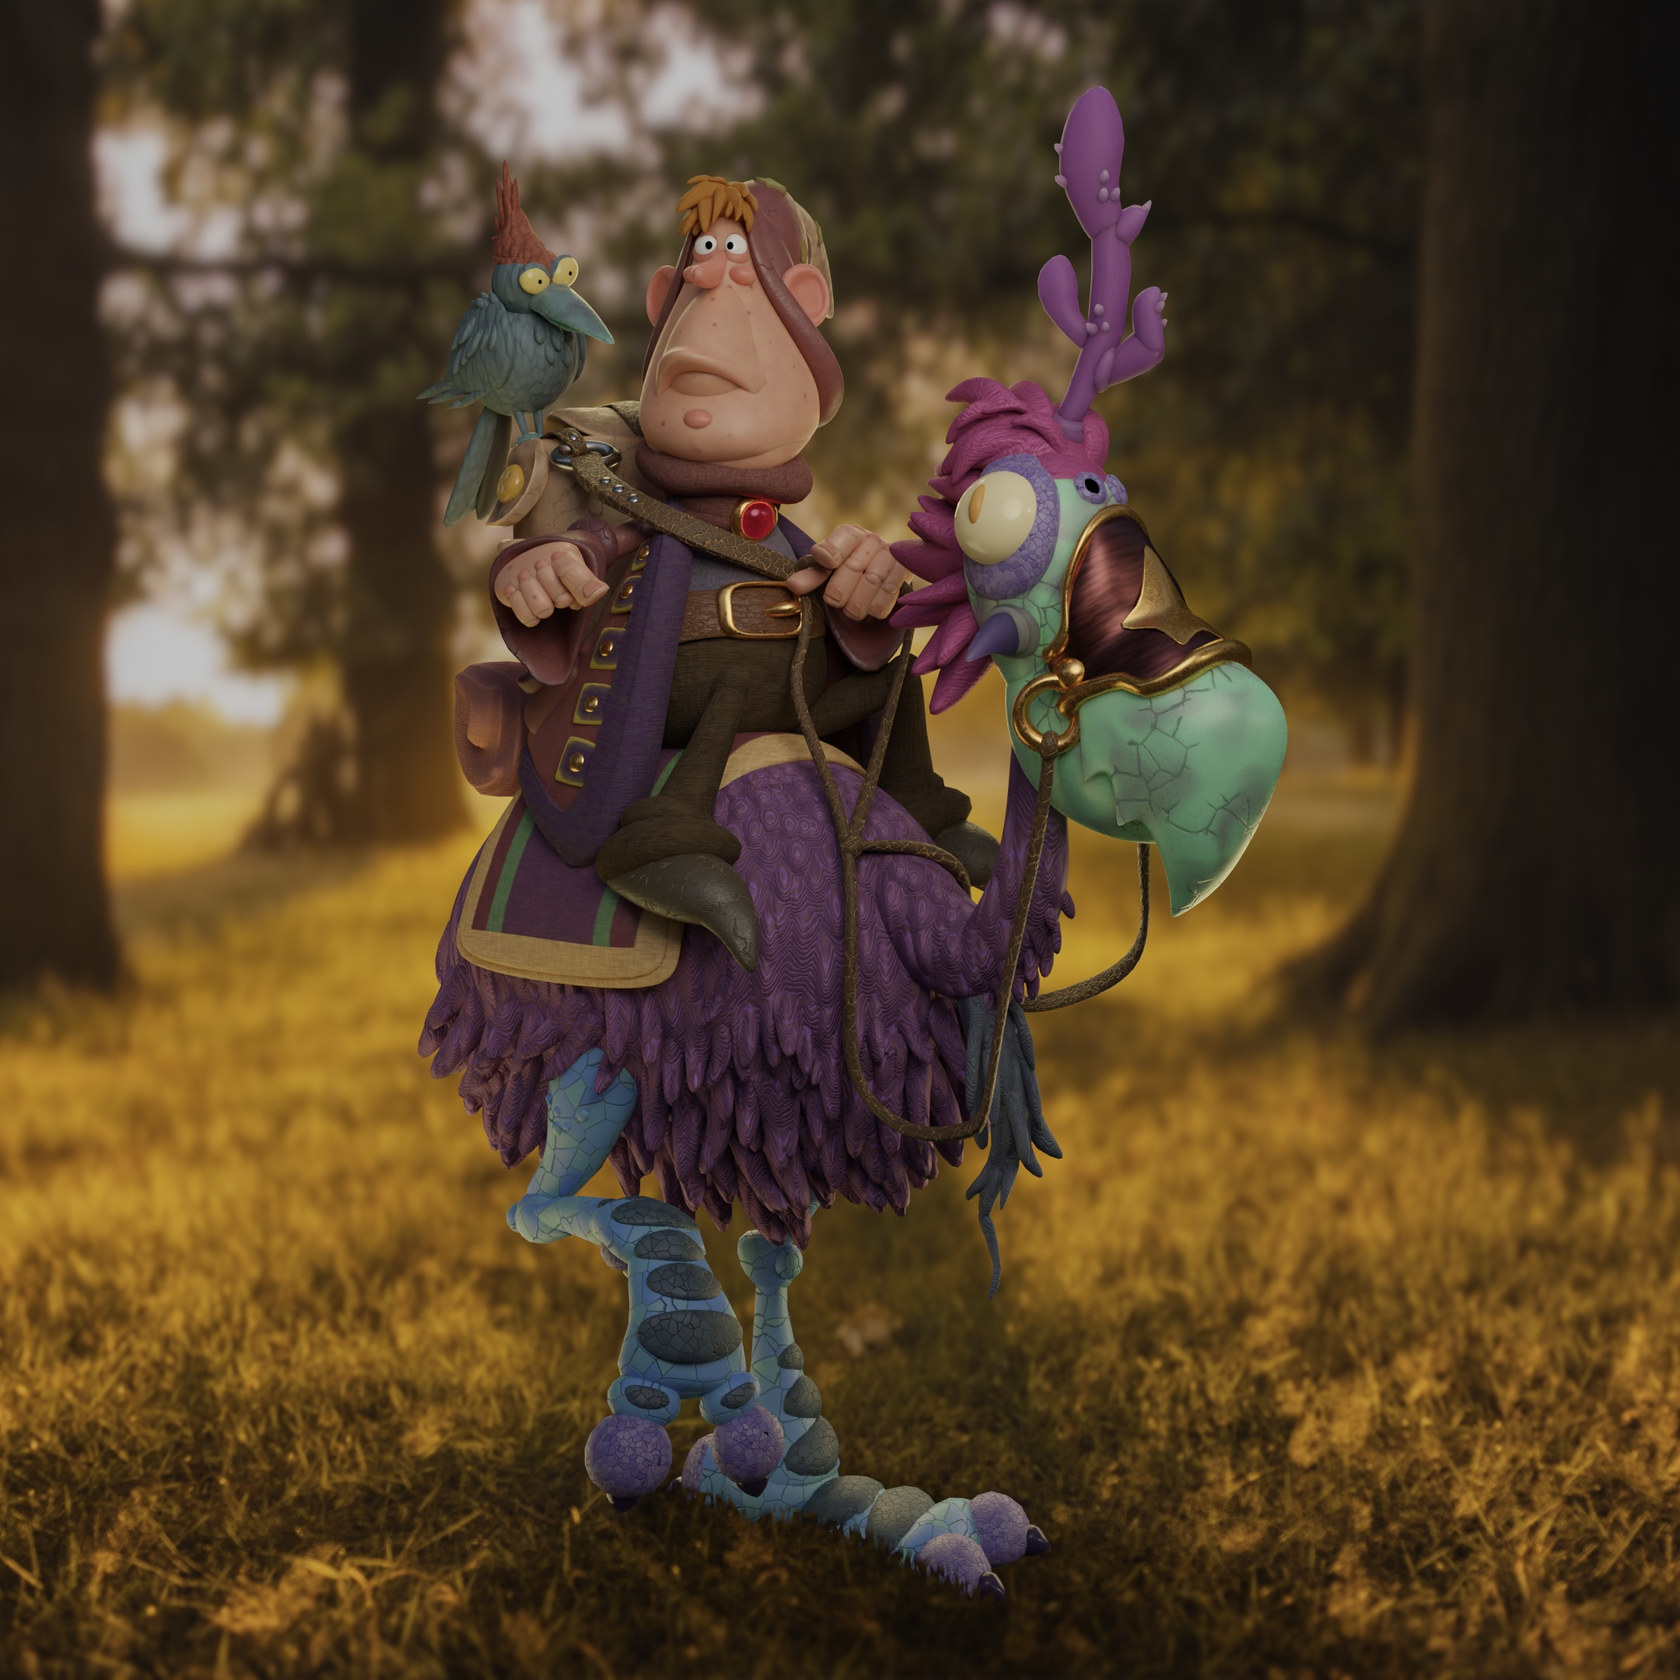
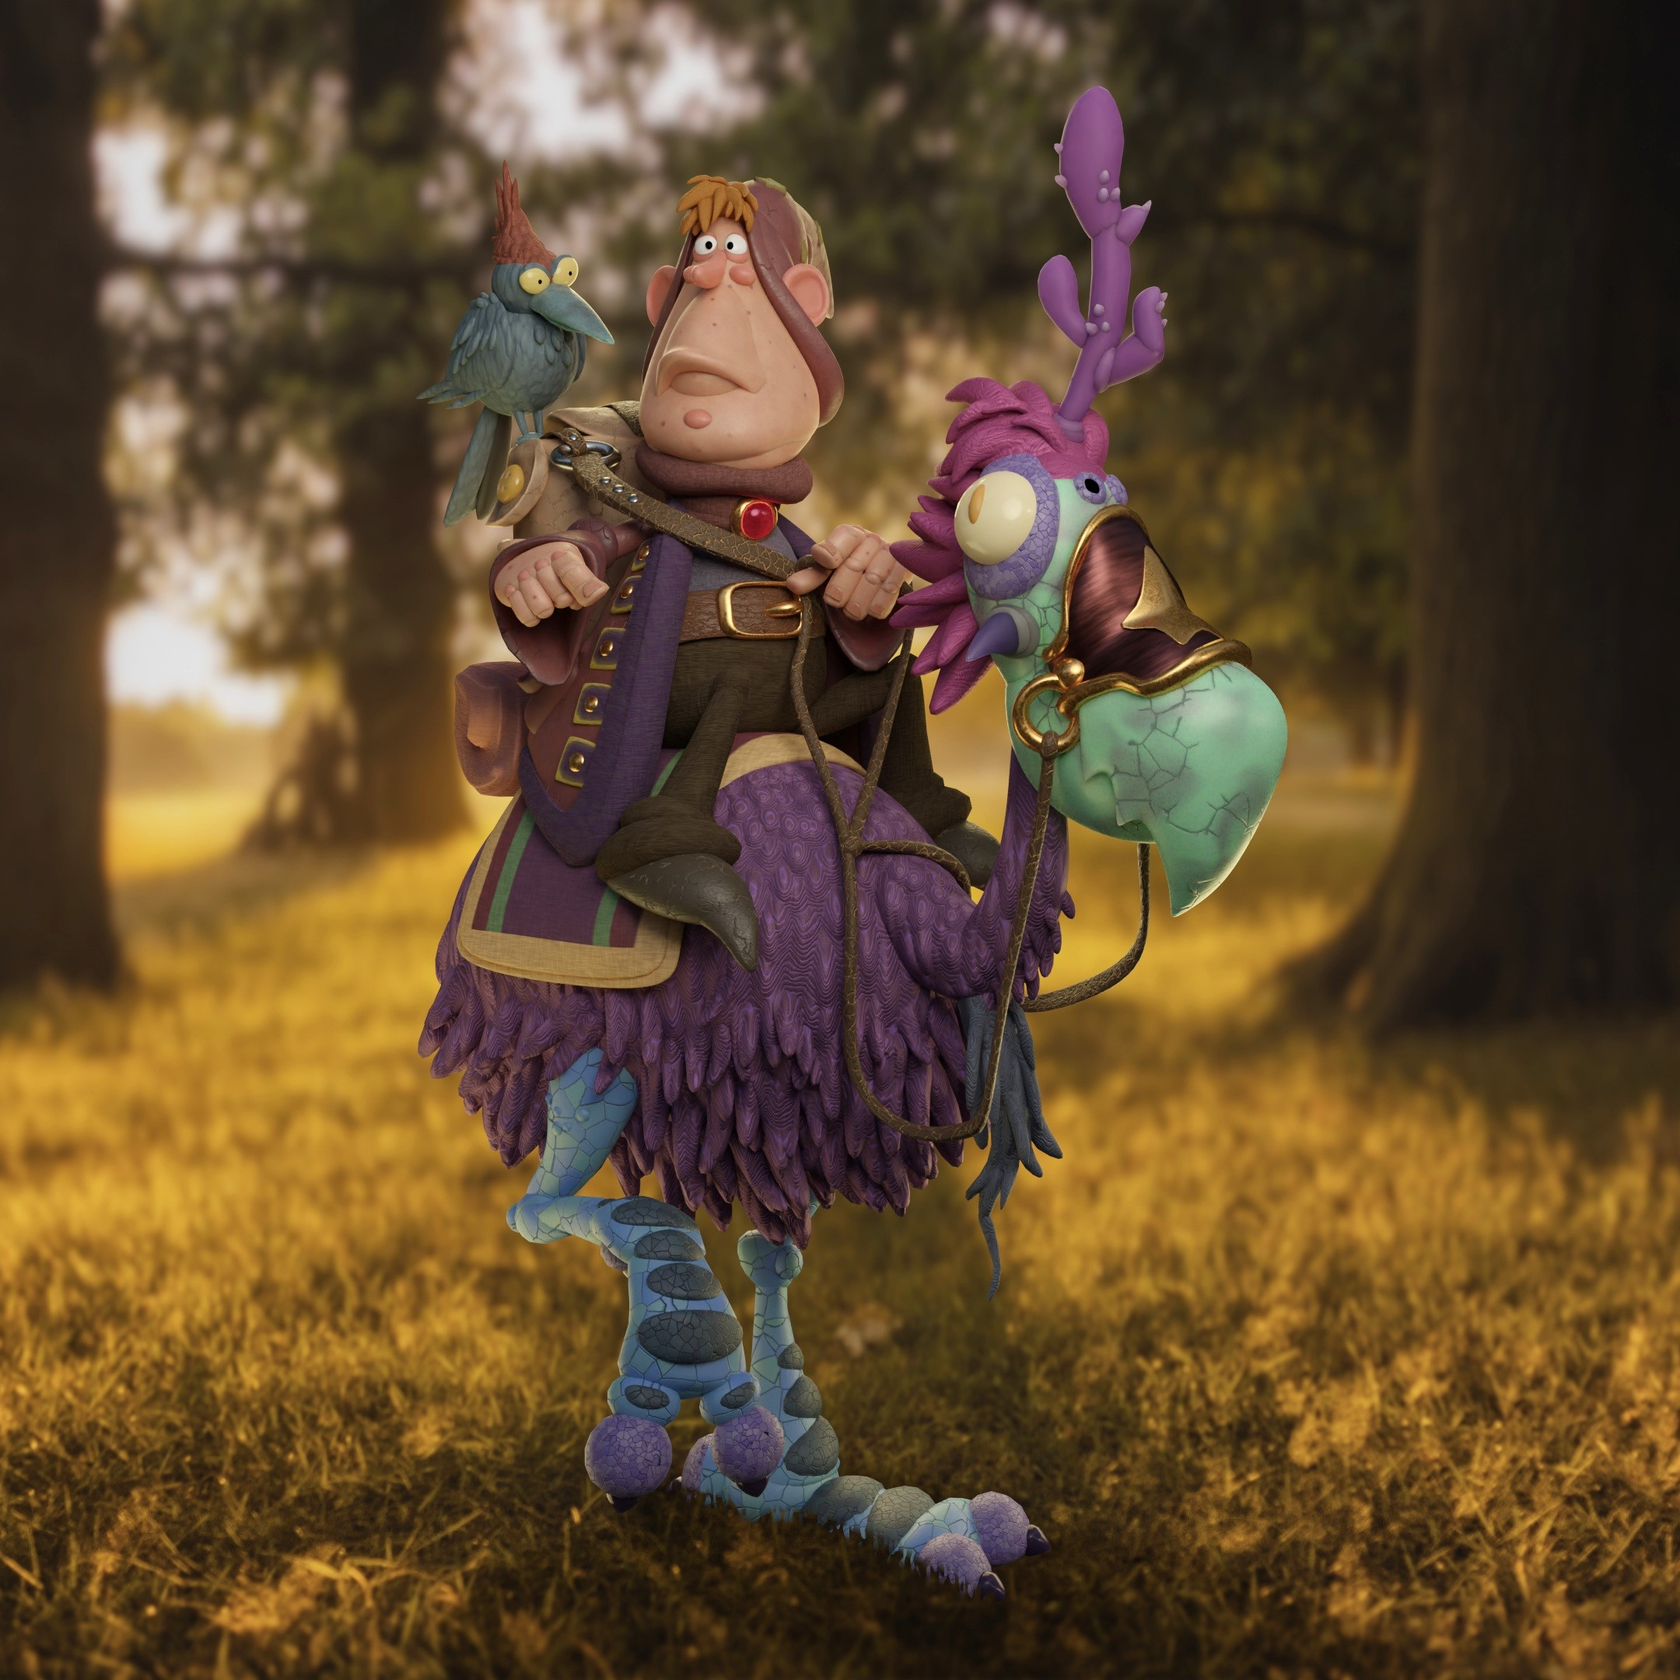
Shrink images

diff --git a/blackbody.html b/blackbody.html
@@ -56,16 +56,16 @@
 								</div>
 								<p class="portfolio_item_main_text">As my final project for <i>CS184: Computer Graphics and Imaging</i> at UC Berkeley, I worked with Jen Hoang and Susan Lin to simulate the blackbody glow of metal objects at high temperatures. The resulting renders take into account non-uniform heat distributions and optical material properties, heightening realism.</p>
 							</div>
-							<span class="image main"><img src="images/blackbody/heat_colors.png" alt="heat colors" /></span>
+							<span class="image main"><img src="images/blackbody/heat_colors.jpg" alt="heat colors" /></span>
 							<h2>Emission and Color Reproduction</h2>
 							<p>We start by implementing the glow of perfectly diffuse emissive objects for some input temperature. In this case, our object is an ideal blackbody that absorbs and re-emits all energy falling upon it. After computing the radiance of our blackbody with Planck's Law of Blackbody Radiation, we convert this high dimensional spectrum to an sRGB color compatible with the computer display.</p>
-							<span class="image main"><img src="images/blackbody/gold.png" alt="gold bunny" /></span>
+							<span class="image main"><img src="images/blackbody/gold.jpg" alt="gold bunny" /></span>
 							<h2>Reflectance and Polarization</h2>
 							<p>We combined our estimate of blackbody radiation with the reflectance of the metal, allowing us to realistically render glow effects for various metallic materials. The final sampled color is a combination of reflected and emitted light, weighted according to Kirchhoff's Law of Thermal Radiation. We also explored how polarization of light changes glow effects and reflections.</p>
-							<span class="image main"><img src="images/blackbody/distributions.png" alt="heat distributions" /></span>
+							<span class="image main"><img src="images/blackbody/distributions.jpg" alt="heat distributions" /></span>
 							<h2>Temperature Distributions</h2>
 							<p>When raytracing, we sample the temperature at each point of intersection. These sampled temperatures are dependent on the type of temperature distribution given: uniform, linear, or noise-based. The linear distribution applies a smooth temperature gradient, and the noise map applies the pseudo-random Perlin noise function with control over temperature range and noise fineness.</p>
-							<span class="image main"><img src="images/blackbody/proj_3.png" alt="adaptive sampling" /></span>
+							<span class="image main"><img src="images/blackbody/proj_3.jpg" alt="adaptive sampling" /></span>
 							<h2>Path Tracer Codebase</h2>
 							<p>Our blackbody renderer was built as an extension of the <a href="https://cs184.eecs.berkeley.edu/sp20/article/20/assignment-3-1-pathtracer" target="_blank">CS184 Project 3: Pathtracer</a> codebase. For this previous project, I implemented the core path tracing algorithms of a physically-based renderer, including ray-geometry intersection, direct and global illumination with Russian Roulette recursion, and adaptive sampling. Additionally, I developed microfacet material modeling and depth-of-field lens simulation.</p>
 							<span class="image main" style="margin-left:20%;width:60%"><img src="images/blackbody/noiseDragon_extra.png" alt="spotted dragon" />

diff --git a/special_order.html b/special_order.html
@@ -59,16 +59,16 @@
 							<span class="image main"><img src="images/special_order/aliens_char_sheet_2.jpg" alt="" /></span>
 							<h2>Pre-Production</h2>
 							<p>This character sketch, by Wyatt Hollister, was used to guide the modeling of the aliens in Maya. During this first stage of the animation pipeline, I used Adobe Premiere Pro to assemble an animatic video with sounds effects and static storyboard drawings.</p>
-							<span class="image main"><img src="images/special_order/modeling_01.png" alt="" /></span>
+							<span class="image main"><img src="images/special_order/modeling_01.jpg" alt="" /></span>
 							<h2>Modeling and Rigging</h2>
 							<p>I modeled the meshes for the alien characters, as well as assets including the clipboard, cacti, buttes, and tree. I sculpted the alien’s head in Mudbox, then constructed a high-fidelity face mesh using Maya’s “Quad Draw” tool. I also built the skeletons and controller rigs to be used in the animation of the full alien bodies, and created “blendshapes” to facilitate animations of facial expressions.</p>
-							<span class="image main"><img src="images/special_order/shading.png" alt="" /></span>
+							<span class="image main"><img src="images/special_order/shading.jpg" alt="" /></span>
 							<h2>Shading</h2>
 							<p>I shaded the aliens and several assets. The color, bump, and roughness textures were created in Substance Painter and Photoshop, and combined using RenderMan shaders.</p>
 							<span class="image main"><img src="images/special_order/anim.png" alt="" /></span>
 							<h2>Animation</h2>
 							<p>Some of the animations I worked on include the truck stopping in the desert and the delivery man walking and handing off the package. I also animated several shots of the aliens, including the mechanical part being grabbed and lifted out of the package, as well as facial expressions and eye motion.</p>
-							<span class="image main"><img src="images/special_order/lighting.png" alt="" /></span>
+							<span class="image main"><img src="images/special_order/lighting.jpg" alt="" /></span>
 							<h2>Lighting and Post-Production</h2>
 							<p>The atmosphere of a desert at dusk was achieved through RenderMan lighting, as well as compositing of the final renders onto some beautiful backgrounds, painted by Brian Lo. Dust, smoke, and abduction effects were also composited in Adobe After Effects. Finally, I edited the sound design to match the final cut of the movie.</p>
 

diff --git a/mirage.html b/mirage.html
@@ -80,11 +80,11 @@
 									<img src="images/mirage/mirage_hand_dissolve_thirds_edit.jpg" alt="hand disappearing"/>
 								</div>
 								<div class="image column halves">
-									<img src="images/mirage/procedural_presence.png" alt="presence textures"/>
+									<img src="images/mirage/procedural_presence.jpg" alt="presence textures"/>
 								</div>
 							</div>
 							<div class="image main">
-								<img src="images/mirage/shot8_comp.png" alt="disintegration side shot"/>
+								<img src="images/mirage/shot8_comp.jpg" alt="disintegration side shot"/>
 							</div>
 							<p>I generated the sand particles for Lila's disintegration using Houdini. First, I animated multiple geometry masks in order to spread the extent of disintegration over time. I then used a POP network, first to generate particles with randomized transforms, then to simulate the particles as they flew through turbulent wind. Additionally, I generated sequences of grayscale presence textures, used to animate the disappearance of Lila's body and clothing meshes. The data from body animations, Vellum cloth simulation, and particles were transferred between Maya and Houdini via USD and Alembic cache.</p>
 
@@ -96,16 +96,16 @@
 
 							<h2>Lighting</h2>
 							<div class="image main">
-							  <img src="images/mirage/shot6_0352.png" alt="hug with lila"/>
+							  <img src="images/mirage/shot6_0352.jpg" alt="hug with lila"/>
 							</div>
 							<p>I also set up most of the lighting for the hug sequence. For the shot above, three-point lighting produced the highlights on Lila's nose, the warm rim around her hair, and the soft fill on her hand. I used a small, light-linked sphere light to bring out the vibrance of Lila's ring gem. Additonally, I animated the brightness of an HDRI dome light to gradually bring on some darkness as Lila disintegrated.</p>
 
 							<h2>Rigging</h2>
 							<div class="image main">
-							  <img src="images/mirage/shot11_01.png" alt="jon alone"/>
+							  <img src="images/mirage/shot11_01.jpg" alt="jon alone"/>
 							</div>
 							<div class="image main">
-								<img src="images/mirage/shot16_01.png" alt="end shot"/>
+								<img src="images/mirage/shot16_01.jpg" alt="end shot"/>
 							</div>
 							<p>I worked on the rigging of Jon's face, mainly using blend shapes to create facial expressions. Each control drove the motion of a particular section of a lip, cheek, eyelid, eyebrow, or some other muscle in the face.</p>
 

diff --git a/index.html b/index.html
@@ -54,7 +54,7 @@
 								<h1>Ethan Buttimer <span style="font-weight:normal">&#183; Portfolio</span></h1>
 								<!--<div class="image row">
 								  <div class="image column">
-								    <img src="images/central/portrait_01_bw.png" alt="">
+								    <img src="images/central/portrait_02.jpg" alt="">
 								  </div>
 							  	</div>-->
 								<div class="portfolio_item_head">
@@ -107,7 +107,7 @@
 								</article>
 								<article>
 									<span class="image">
-										<img src="images/toadlet/toadlet_result.png" alt="" class="central"/>
+										<img src="images/central/toadlet_result.jpg" alt="" class="central"/>
 									</span>
 									<a href="toadlet.html">
 										<h2>Pumpkin Toadlet</h2>
@@ -118,7 +118,7 @@
 								</article>
 								<article>
 									<span class="image">
-										<img src="images/central/spline_wall_pic.png" alt="spline wall" class="central"/>
+										<img src="images/central/spline_wall_pic.jpg" alt="spline wall" class="central"/>
 									</span>
 									<a href="geopogo.html">
 										<h2>Geopogo AR</h2>
@@ -151,7 +151,7 @@
 								</article>
 								<article>
 									<span class="image hover_blur">
-										<img src="images/central/noiseDragon_extra.png" alt="" class="central"/>
+										<img src="images/central/noiseDragon_extra.jpg" alt="" class="central"/>
 									</span>
 									<a href="blackbody.html">
 										<h2>Blackbody Renderer</h2>
@@ -162,7 +162,7 @@
 								</article>
 								<!--<article>
 									<span class="image">
-										<img src="images/central/geonudge.png" alt="" class="central"/>
+										<img src="images/central/geonudge.jpg" alt="" class="central"/>
 									</span>
 									<a href="geonudge.html">
 										<h2>GeoNudge</h2>
@@ -173,7 +173,7 @@
 								</article>-->
 								<article>
 									<span class="image hover_blur">
-										<img src="images/central/truck.png" alt="" class="central"/>
+										<img src="images/central/truck.jpg" alt="" class="central"/>
 									</span>
 									<a href="special_order.html">
 										<h2>Special Order</h2>
@@ -203,7 +203,7 @@
 								</article>-->
 								<!--<article>
 									<span class="image">
-										<img src="images/central/eggony.png" alt="" class="central"/>
+										<img src="images/central/eggony.jpg" alt="" class="central"/>
 									</span>
 									<a href="eggony.html">
 										<h2>The Eggony and the Eggstasy</h2>

diff --git a/toadlet.html b/toadlet.html
@@ -60,7 +60,7 @@
 
 							<div class="image row">
 								<div class="image column halves">
-								  <img src="images/toadlet/toadlet_result.png" alt="render"/>
+								  <img src="images/toadlet/toadlet_result.jpg" alt="render"/>
 								</div>
 								<div class="image column halves">
 								  <img src="images/toadlet/actual_image.JPG" alt="photo"/>
@@ -70,30 +70,30 @@
 
 							<div class="image row">
 							  <div class="image column halves">
-							    <img src="images/toadlet/frog_mat_nodes.png" alt="frog material shader network"/>
+							    <img src="images/toadlet/frog_mat_nodes.jpg" alt="frog material shader network"/>
 							  </div>
 							  <div class="image column halves">
-							    <img src="images/toadlet/leaf_nodes_crop.png" alt="moss geometry nodes"/>
+							    <img src="images/toadlet/leaf_nodes_crop.jpg" alt="moss geometry nodes"/>
 							  </div>
 							</div>
 							<p class="portfolio_item_main_text">Frog material shader network, moss model Geometry Nodes. I created procedural shaders for the dirt ground and the logs in the background as well. The mossy patches on these logs were also scattered and randomized procedurally.</p>
 
 							<div class="image row">
 								<div class="image column halves">
-								  <img src="images/toadlet/toadlet_spiky.png" alt="spiky"/>
+								  <img src="images/toadlet/toadlet_spiky.jpg" alt="spiky"/>
 								</div>
 								<div class="image column halves">
-								  <img src="images/toadlet/toadlet_donut_crop.png" alt="blender donut"/>
+								  <img src="images/toadlet/toadlet_donut_crop.jpg" alt="blender donut"/>
 								</div>
 						    </div>
 							<p class="portfolio_item_main_text">Bloopers: untamed displacement shader, customary Blender donut consisting of my frog material.</p>
 
 							<div class="image row">
 								<div class="image column halves">
-								  <img src="images/toadlet/retopo_progress.png" alt="retopo_progress"/>
+								  <img src="images/toadlet/retopo_progress.jpg" alt="retopo_progress"/>
 								</div>
 								<div class="image column halves">
-								  <img src="images/toadlet/retopo_finished.png" alt="retopo_finished"/>
+								  <img src="images/toadlet/retopo_finished.jpg" alt="retopo_finished"/>
 								</div>
 						    </div>
 							<p class="portfolio_item_main_text">Retopology using <a href="https://blendermarket.com/products/speedretopo">Speedretopo</a> plugin</p>

diff --git a/eggony.html b/eggony.html
@@ -59,13 +59,13 @@
 
 							<div class="image row">
 							  <div class="image column">
-							    <img src="images/eggony/storyboard6.png" alt="storyboarding"/>
+							    <img src="images/eggony/storyboard6.jpg" alt="storyboarding"/>
 							  </div>
 							  <div class="image column">
-							    <img src="images/eggony/tpose.png" alt="rigging"/>
+							    <img src="images/eggony/tpose.jpg" alt="rigging"/>
 							  </div>
 							  <div class="image column">
-							    <img src="images/eggony/drilling.png" alt="animation"/>
+							    <img src="images/eggony/drilling.jpg" alt="animation"/>
 							  </div>
 							</div>
 							<p>First time through the animated film pipeline! I built the main ‘crocodile chef’ model, along with several other assets, including a drill, chef hat, and cheese wedge. I also shaded these assets, rigged the chef, and arranged the furniture and lighting in the kitchen set. Finally, I animated and rendered scenes including the jump, the lick, and the flame effects. As project manager of the short film production, I grew as a leader and developed a passion for animation.</p>

diff --git a/geopogo.html b/geopogo.html
@@ -56,14 +56,14 @@
 
 								<div class="image row">
 								  <div class="image column halves">
-								    <img src="images/geopogo/start_menu.png" alt="start menu"/>
+								    <img src="images/geopogo/start_menu.jpg" alt="start menu"/>
 								  </div>
 								  <div class="image column halves">
-									<img src="images/geopogo/spline_wall_pic.png" alt="spline walls"/>
+									<img src="images/geopogo/spline_wall_pic.jpg" alt="spline walls"/>
 								  </div>
 							  	</div>
 								<div class="image main">
-								  <img src="images/geopogo/object_ui.png" alt="object UI"/>
+								  <img src="images/geopogo/object_ui.jpg" alt="object UI"/>
 							  	</div>
 
 								<p class="portfolio_item_main_text">With Geopogo, I developed tools and user interface elements for a Unity-based architectural modeling platform. I completed a major redesigned of the UI, making commonly used tools more prominent and improving the start menu. I also gave creators the freedom to create complex wall layouts, incorporating spline-based curved wall segments.</p>

diff --git a/additional_ma.html b/additional_ma.html
@@ -55,13 +55,13 @@
 							<div class="image row">
 								<div class="image column halves">
 									<img src="images/additional_3dma/rider_comp_01.jpg" alt="wizard"/>
-									<img src="images/additional_3dma/cello_screenshot.png" alt="cello"/>
+									<img src="images/additional_3dma/cello_screenshot.jpg" alt="cello"/>
 									<img src="images/additional_3dma/walk_vanilla.gif" alt="walk cycle"/>
 								</div>
 								<div class="image column halves">
 									<img src="images/additional_3dma/jump_02.gif" alt="jump"/>
-									<img src="images/additional_3dma/more_mosley_burned_black.png" alt="mosley snowflake fractal"/>
-									<img src="images/additional_3dma/infra_screenshot.png" alt="infrasect"/>
+									<img src="images/additional_3dma/more_mosley_burned_black.jpg" alt="mosley snowflake fractal"/>
+									<img src="images/additional_3dma/infra_screenshot.jpg" alt="infrasect"/>
 								</div>
 							</div>
 

diff --git a/artwork.html b/artwork.html
@@ -56,11 +56,11 @@
 							<div class="image row">
 							  <div class="image column halves">
 							    <img src="images/artwork/beans_edit.jpeg" alt="mexican food pen drawing"/>
-								 <img src="images/artwork/cat_eye.jpeg" alt="cat eye"/>
+								 <img src="images/artwork/cat_eye.jpg" alt="cat eye"/>
 								 <img src="images/artwork/ejb_logo.jpeg" alt="logo"/>
 							  </div>
 							  <div class="image column halves">
-								 <img src="images/artwork/orange_blue.jpeg" alt="decider"/>
+								 <img src="images/artwork/orange_blue.jpg" alt="orange blue"/>
 								 <img src="images/artwork/bw_trees.jpeg" alt="trees"/>
 							  </div>
 							</div>

diff --git a/elnido.html b/elnido.html
@@ -69,7 +69,7 @@
 							        <img src="images/elnido/island_height_map_02.jpg" alt="island height map"/>
 							    </div>
 							    <div class="image column halves">
-							        <img src="images/elnido/wave_height_map_02.jpg" alt="wave height map"/>
+							        <img src="images/elnido/wave_height_map.jpg" alt="wave height map"/>
 							    </div>
 							</div>
 							<div class="image row">
